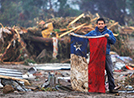
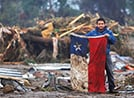
Optimizar imágenes y mejorar performance web
OPTIMIZACIÓN DE IMÁGENES:
- Reducir fondo.jpg de 2.2MB a 587KB (73% de reducción)
- Optimizar todas las imágenes de awards/ con Sharp
- Mantener calidad visual con JPEG progresivo y mozjpeg
- Comprimir sin pérdida visual significativa

MEJORAS DE CACHE:
- Cache de 30 días para imágenes optimizadas
- Cache de 1 día para CSS/JS con versioning
- ETags y Last-Modified para validación de cache
- Headers de cache específicos por tipo de archivo

VERSIONING DE ASSETS:
- Añadir cache-busting a CSS (?v=2025-10-23)
- Configurar headers apropiados para cada tipo de archivo

Resultado: Mejora significativa en velocidad de carga de la página.

diff --git a/config/express.js b/config/express.js
@@ -207,8 +207,22 @@ app.use(helmet.contentSecurityPolicy({
   reportOnly: false, // Siempre enforcar en producción
 }));
 
-// Static Files
-app.use(express.static(path.join(__dirname, "../public")));
+// Static Files con cache optimizado para imágenes
+app.use(express.static(path.join(__dirname, "../public"), {
+  maxAge: process.env.NODE_ENV === 'production' ? '7d' : 0, // 7 días cache en producción
+  etag: true,
+  lastModified: true,
+  setHeaders: (res, path) => {
+    // Cache largo para imágenes optimizadas
+    if (path.match(/\.(jpg|jpeg|png|gif|webp|svg|ico)$/i)) {
+      res.setHeader('Cache-Control', 'public, max-age=2592000'); // 30 días para imágenes
+    }
+    // Cache corto para CSS/JS con versioning
+    if (path.match(/\.(css|js)$/i)) {
+      res.setHeader('Cache-Control', 'public, max-age=86400'); // 1 día para CSS/JS
+    }
+  }
+}));
 
 // Función de throttle para limitar la frecuencia de las emisiones
 const throttle = (func, limit) => {
